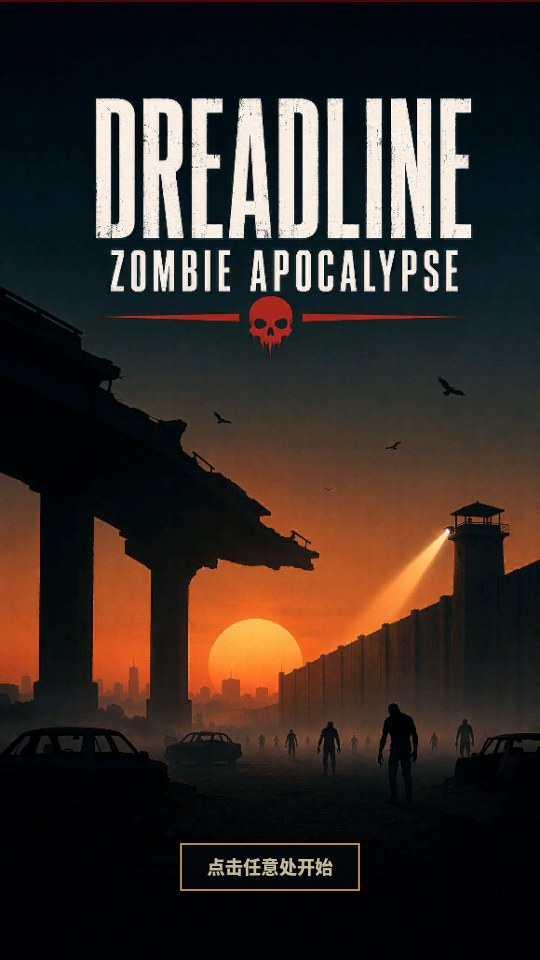
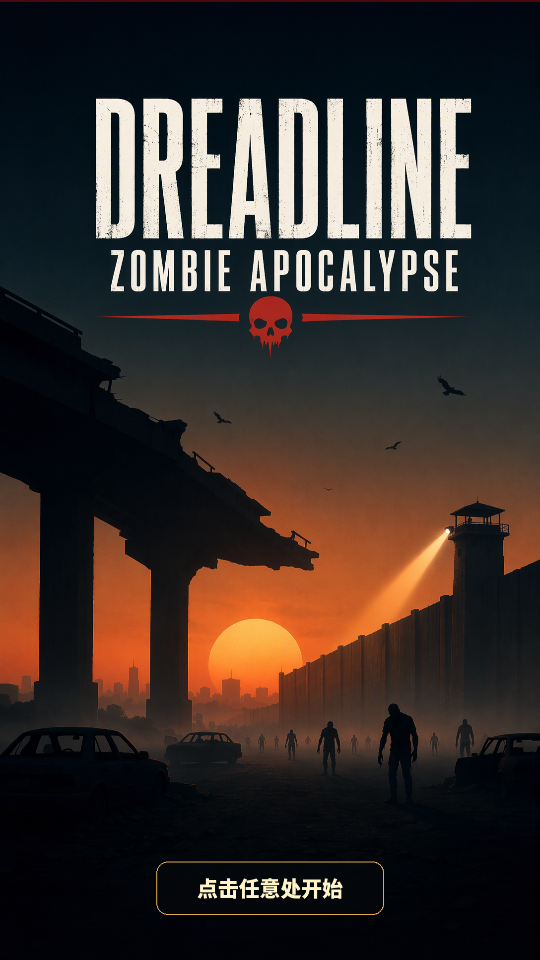
fix(crate): restore the build-3 rig copied from GitHub history
git show 4a2906c:scripts/weapon_crate_3d.gd had the green case at CRATE_SCALE 2.9 with the latch
and the counter at 1.85 - that is the two platforms the runs always had. My scaling, the truck and
the concrete slab are all gone; Merchant_HD stays deleted from supply_truck.glb.

diff --git a/tools/make_launch_cover.py b/tools/make_launch_cover.py
@@ -1,0 +1,47 @@
+"""Bake the tap prompt into the cover so it can also be used as a static launch image."""
+from PIL import Image, ImageDraw, ImageFont
+import os
+
+ROOT = r"C:\Users\user\Documents\kimi\tasks\2026-11-06\12-50-12-52283f1e\df-backup"
+SRC = os.path.join(ROOT, "assets", "ui", "title_screen.png")
+OUT = os.path.join(ROOT, "assets", "ui", "launch_cover.png")
+
+im = Image.open(SRC).convert("RGBA")
+W, H = im.size
+draw = ImageDraw.Draw(im, "RGBA")
+
+font = None
+for cand in (
+    os.path.join(ROOT, "assets", "fonts", "NotoSansSC-Bold.otf"),
+    os.path.join(ROOT, "assets", "fonts", "NotoSansSC-Regular.otf"),
+):
+    if os.path.exists(cand):
+        font = ImageFont.truetype(cand, int(H * 0.022))
+        break
+if font is None:
+    for name in os.listdir(os.path.join(ROOT, "assets", "fonts")):
+        if name.endswith((".otf", ".ttf")):
+            font = ImageFont.truetype(os.path.join(ROOT, "assets", "fonts", name), int(H * 0.022))
+            break
+
+text = "点击任意处开始"
+if font is not None:
+    bbox = draw.textbbox((0, 0), text, font=font)
+    tw, th = bbox[2] - bbox[0], bbox[3] - bbox[1]
+else:
+    tw, th = W * 0.4, H * 0.02
+
+cx = W // 2
+cy = int(H * 0.925)
+pad_x, pad_y = int(tw * 0.28), int(th * 0.75)
+pill = [cx - tw // 2 - pad_x, cy - th // 2 - pad_y, cx + tw // 2 + pad_x, cy + th // 2 + pad_y]
+
+overlay = Image.new("RGBA", im.size, (0, 0, 0, 0))
+od = ImageDraw.Draw(overlay)
+od.rounded_rectangle(pill, radius=int(th * 0.55), fill=(6, 8, 12, 170), outline=(242, 184, 82, 235), width=max(2, W // 400))
+im = Image.alpha_composite(im, overlay)
+draw = ImageDraw.Draw(im)
+draw.text((cx - tw // 2, cy - th // 2 - bbox[1] if font else cy), text, font=font, fill=(255, 243, 200, 255))
+
+im.convert("RGB").save(OUT, quality=92)
+print("launch cover written:", OUT, im.size)

diff --git a/tools/crate_restore_original.py b/tools/crate_restore_original.py
@@ -1,0 +1,32 @@
+import io
+
+p = r"C:\Users\user\Documents\kimi\tasks\2026-11-06\12-50-12-52283f1e\df-backup\scripts\weapon_crate_3d.gd"
+t = io.open(p, encoding="utf-8").read()
+
+start = t.index("\tif can_used:")
+end = t.index("\tvar band := MeshInstance3D.new()")
+original = '''	if can_used:
+		pass
+	elif crate_mesh:
+		# Exactly the build-3 rig: the green case itself is the platform, at CRATE_SCALE.
+		var c := MeshInstance3D.new(); c.mesh = crate_mesh; c.scale = Vector3.ONE*s
+		c.position = Vector3(0,0.15*s,0); body.add_child(c)
+		if latch_mesh:
+			var l := MeshInstance3D.new(); l.mesh = latch_mesh; l.scale = Vector3.ONE*s
+			l.position = Vector3(0,0.15*s,0.22*s); body.add_child(l)
+	else:
+		var can_height := 0.78
+'''
+t = t[:start] + original + t[end:]
+
+# drop the platform slab and the body lift added earlier
+plat_start = t.find("\t# The drop stands on a platform, not on the road: a concrete slab with a steel edge.")
+if plat_start != -1:
+    plat_end = t.find("\tweapon_pivot = Node3D.new()", plat_start)
+    t = t[:plat_start] + t[plat_end:]
+
+t = t.replace("\tweapon_pivot = Node3D.new(); weapon_pivot.position = Vector3(0,1.85 + PLATFORM_H,0); add_child(weapon_pivot)",
+              "\tweapon_pivot = Node3D.new(); weapon_pivot.position = Vector3(0,1.85,0); add_child(weapon_pivot)", 1)
+
+io.open(p, "w", encoding="utf-8", newline="\n").write(t)
+print("crate restored to the build-3 rig (green case as the platform)")

diff --git a/tools/cover_switch.py b/tools/cover_switch.py
@@ -1,0 +1,29 @@
+import io
+import re
+
+ROOT = r"C:\Users\user\Documents\kimi\tasks\2026-11-06\12-50-12-52283f1e\df-backup"
+
+# 1) cover art now carries the baked prompt, so the drawn pill goes away
+h = io.open(ROOT + r"\scripts\hud.gd", encoding="utf-8").read()
+start = h.find("\t# The prompt is part of the cover")
+end = h.find("func _draw_loading()")
+assert start > 0 and end > start
+h = h[:start] + h[end:]
+
+h = h.replace(
+    'menu_art=load("res://assets/ui/title_screen.png")',
+    'menu_art=load("res://assets/ui/launch_cover.png")',
+    1,
+)
+io.open(ROOT + r"\scripts\hud.gd", "w", encoding="utf-8", newline="\n").write(h)
+
+# 2) the boot splash shows the same image, prompt included
+p = ROOT + r"\project.godot"
+g = io.open(p, encoding="utf-8").read()
+g = g.replace(
+    'boot_splash/image="res://assets/ui/title_screen.png"',
+    'boot_splash/image="res://assets/ui/launch_cover.png"',
+    1,
+)
+io.open(p, "w", encoding="utf-8", newline="\n").write(g)
+print("cover and boot splash both use launch_cover.png")
